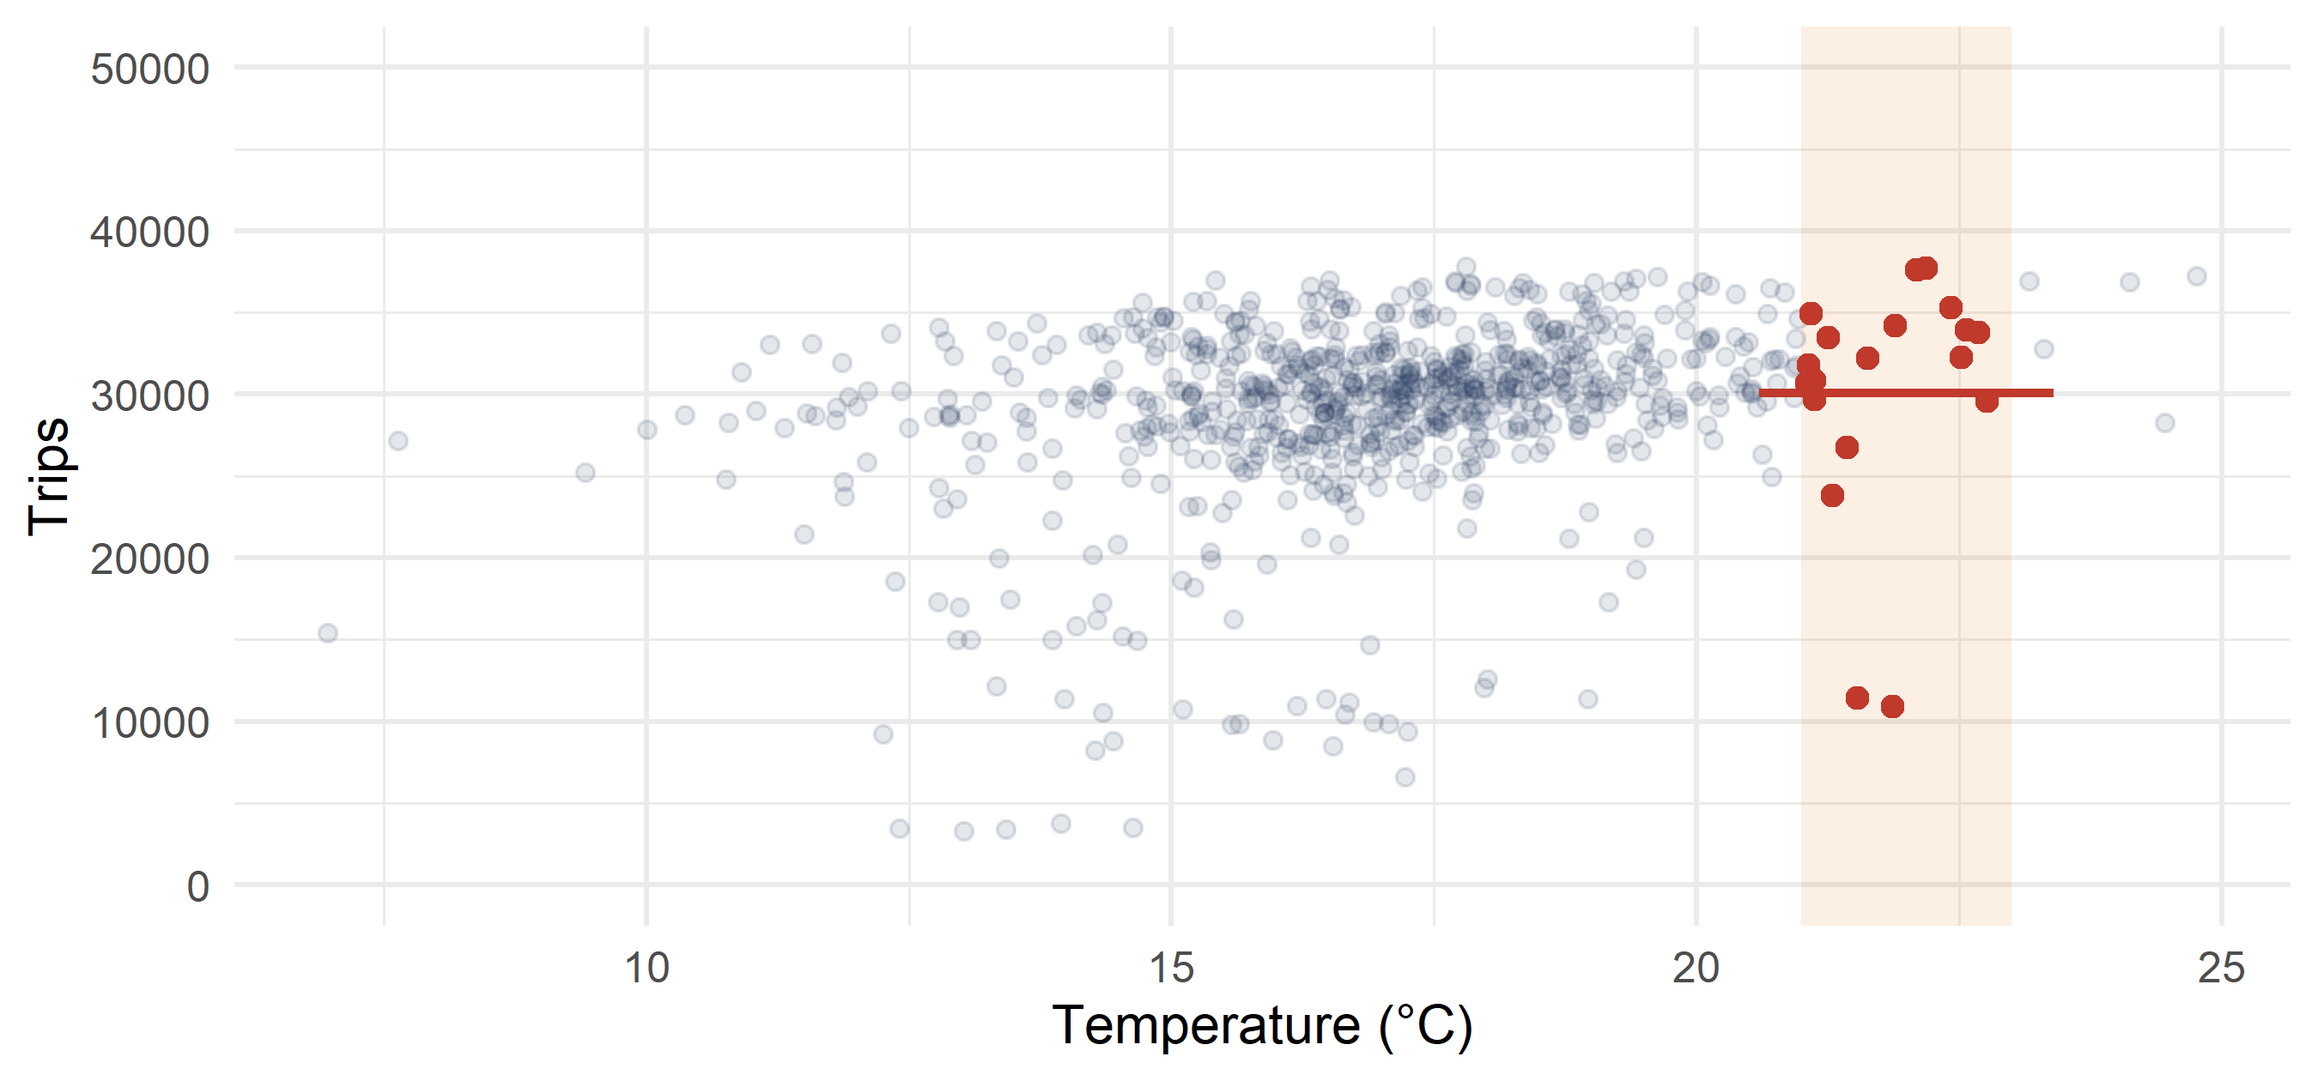
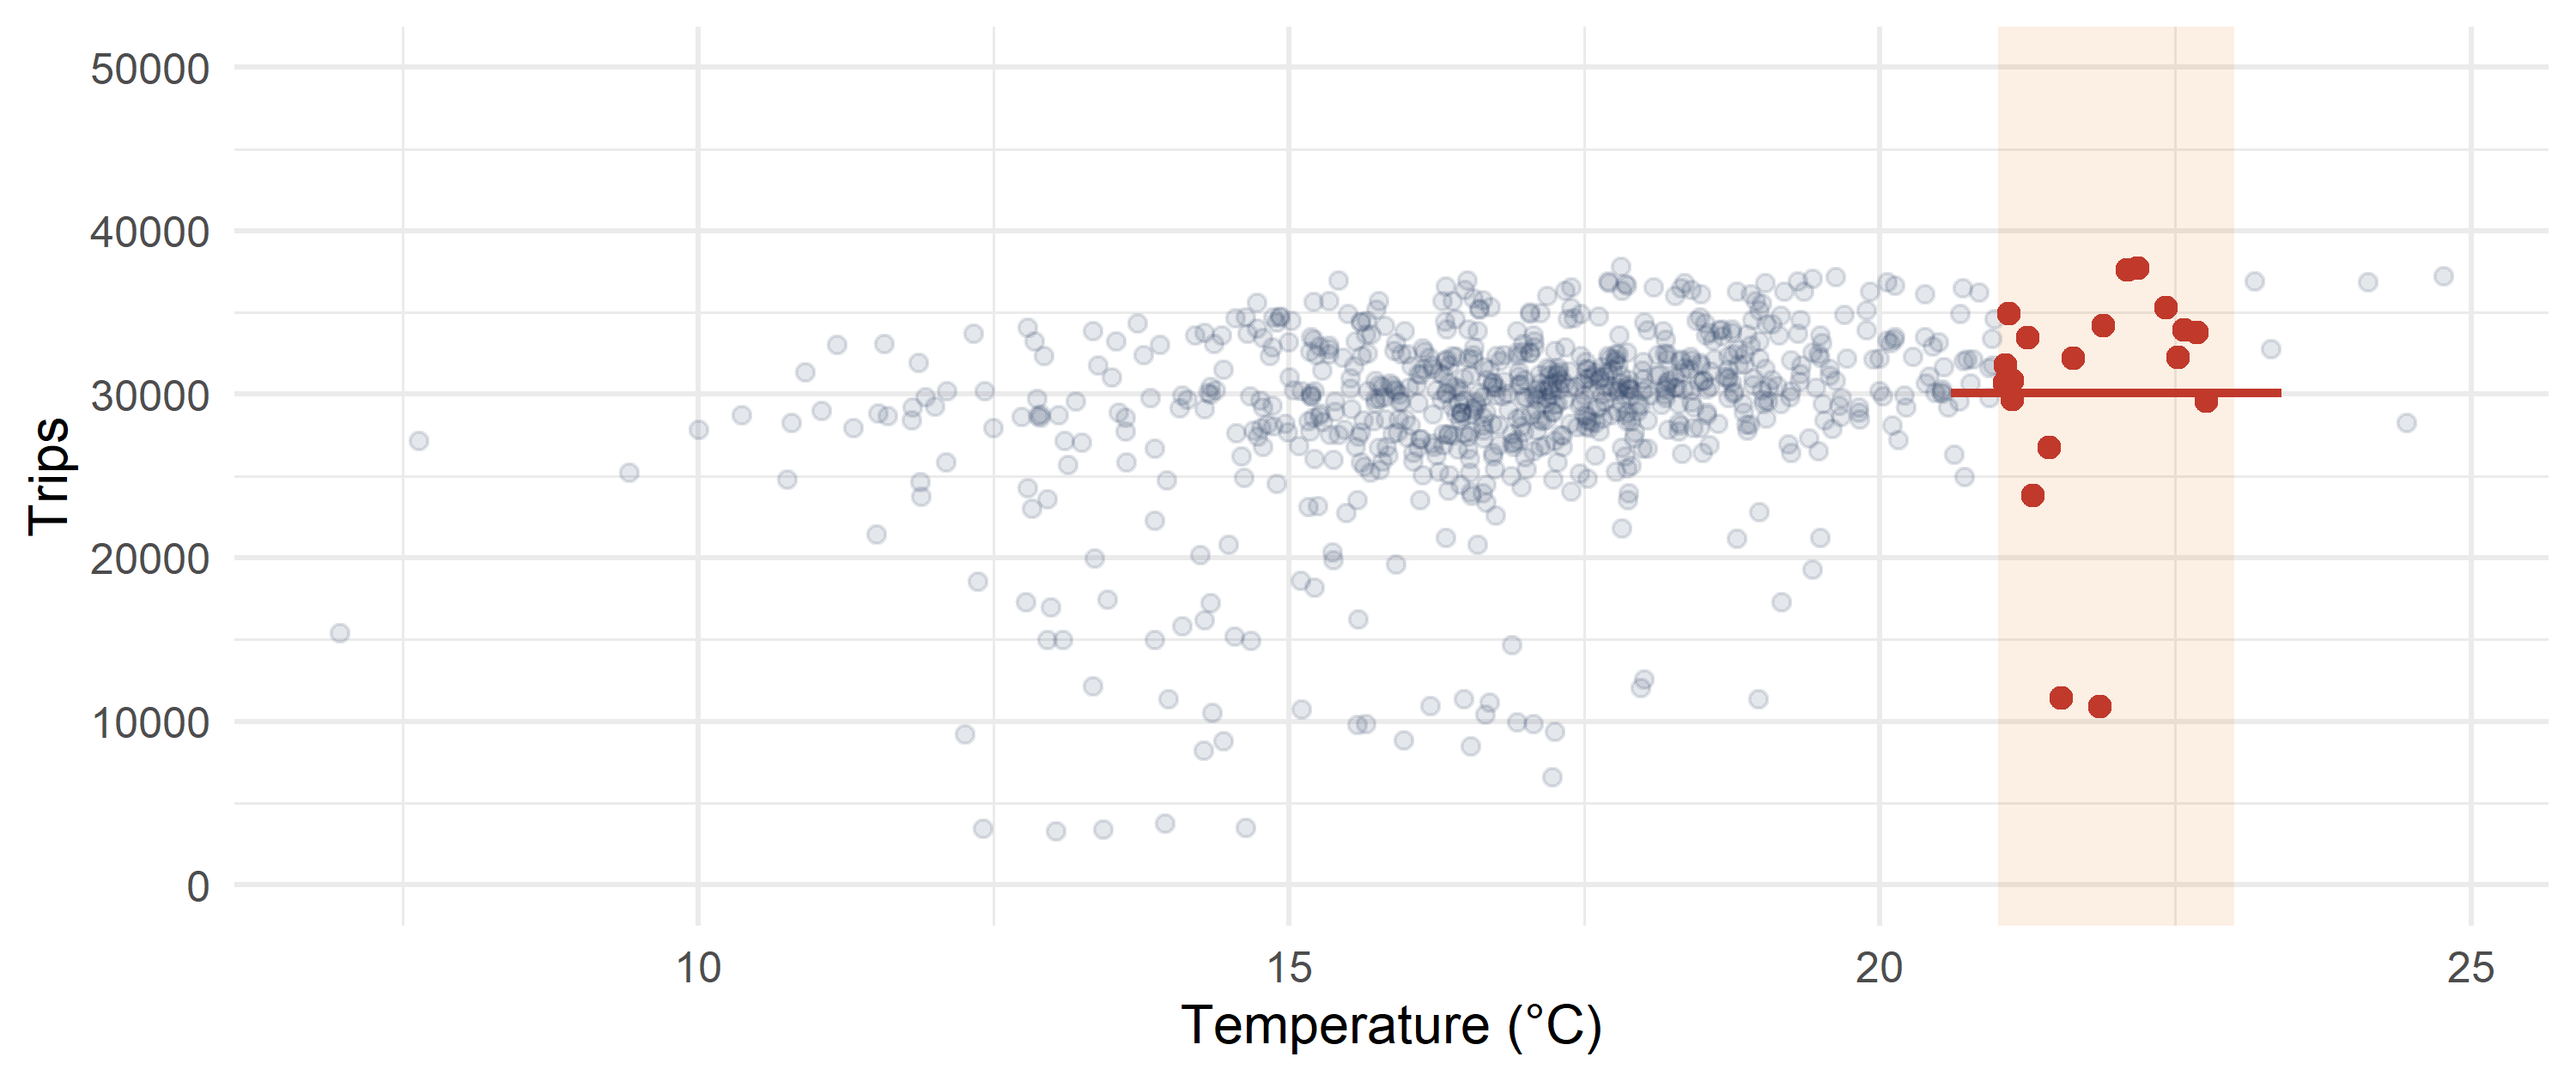
W08: tighten the 22 C days slide so it fits one printed page

diff --git a/Live/W08/W08_live.html b/Live/W08/W08_live.html
@@ -1470,15 +1470,11 @@ eyJhdHRyIjp7ImVkaXQiOnRydWUsImV2YWwiOnRydWUsImV4ZXJjaXNlIjoiZXgxMyIsInBlcnNpc3Qi
 </div>
 </div>
 <div class="fragment">
-<p>One day near 22 °C had 10,941 trips; another had 37,721. Tomorrow could land anywhere in that range. That is why the second question is hard.</p>
+<p>One day near 22 °C had 10,941 trips; another had 37,721. Tomorrow could land anywhere in that range: the second question is hard.</p>
 </div>
 <div class="fragment">
-<p>Their average is pinned down far better. The 19 days have a standard deviation of 7,459 trips, so the standard error of their mean is <span class="math inline">\(7{,}459 / \sqrt{19} = 1{,}711\)</span> trips. With more days it would move even less. The regression uses all 781 days, not just these 19, so its average at 22 °C is pinned down more tightly still.</p>
+<p>Their average is pinned down far better: its standard error is <span class="math inline">\(7{,}459 / \sqrt{19} = 1{,}711\)</span> trips. The regression uses all 781 days, so its average at 22 °C is tighter still. Same point forecast, <span class="math inline">\(\hat{\beta}_0 + \hat{\beta}_1 \times 22\)</span>; different uncertainty. <a href="#/appendix-near-22">Compute these numbers yourself</a></p>
 </div>
-<div class="fragment">
-<p>Both questions start from the same point forecast, <span class="math inline">\(\hat{\beta}_0 + \hat{\beta}_1 \times 22\)</span>. They do not have the same uncertainty. Section 7 measures the first one, section 8 the second.</p>
-</div>
-<p><a href="#/appendix-near-22">Compute these numbers yourself</a></p>
 </section>
 <section id="why-the-average-is-easier" class="slide level2">
 <h2>Why the average is easier</h2>
